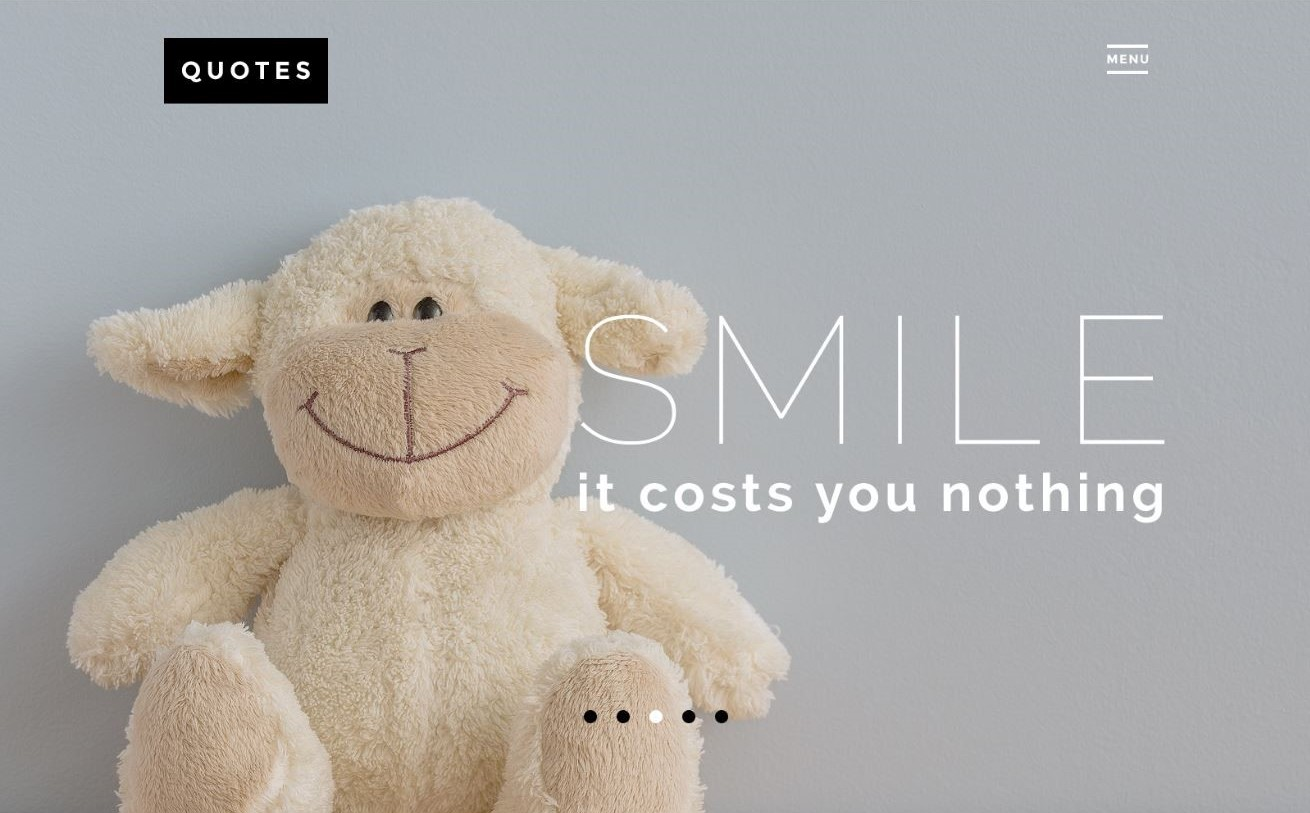
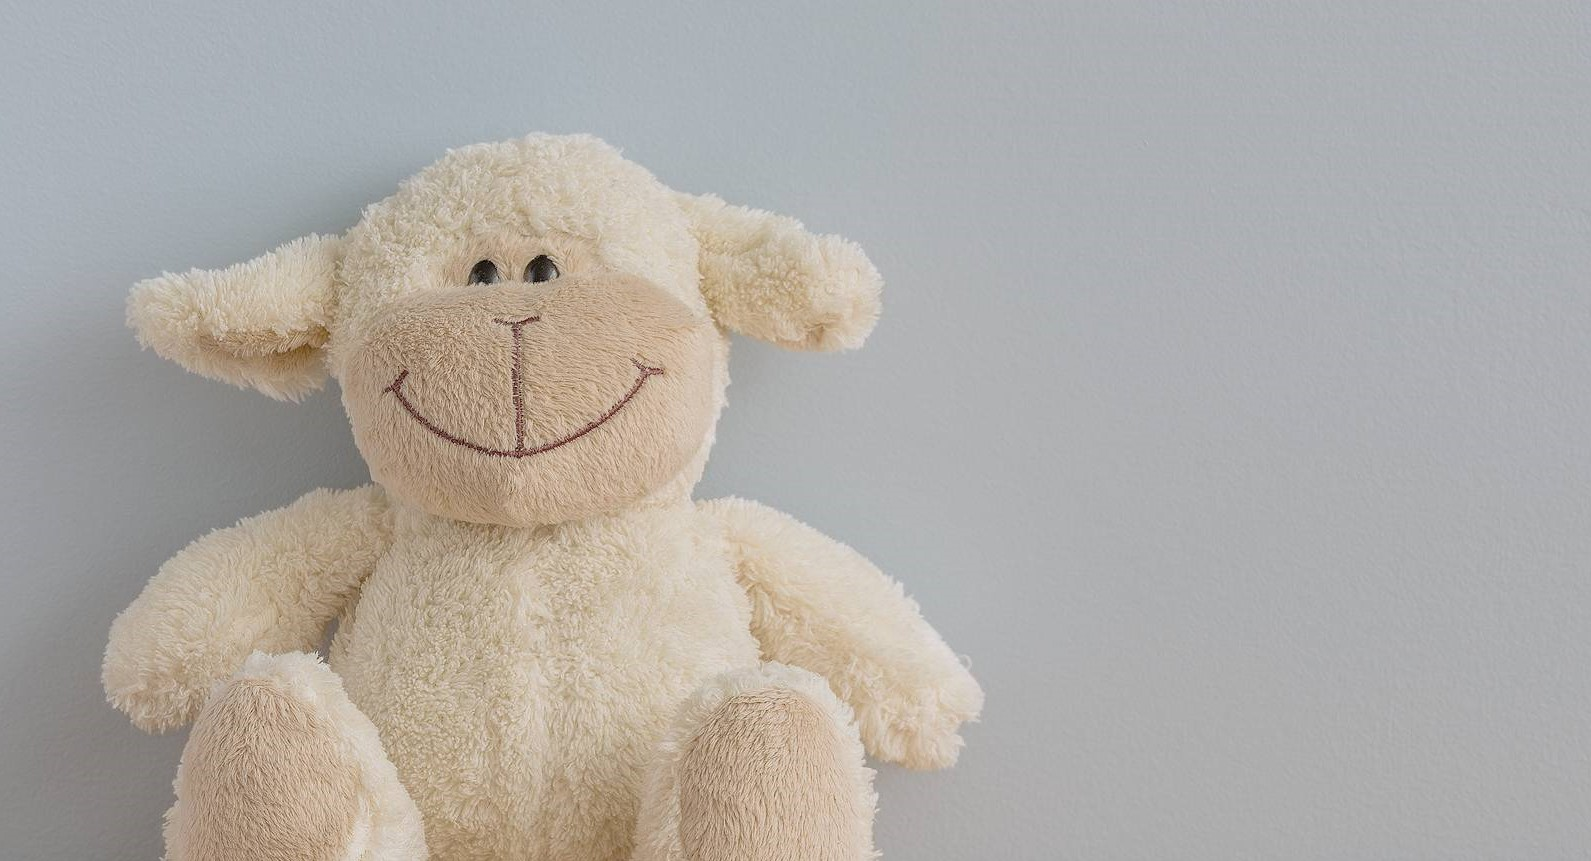
Proyecto

diff --git a/css/styles.css b/css/styles.css
@@ -1,12 +1,162 @@
 body{
-    font-family: 'Courier New', Courier, monospace;
     margin: 0 0 0 0;
 }
-#portada{
-    width: 100%;
-    height: 1002px;
+.wrapper{
+    width:1600px;
+    margin:auto;
+}
+
+/*Header*/
+#header{
+    background-image: url("../img/Portada_Oso.JPG");
+    background-repeat: no-repeat;
+    max-width: 100%;
+    height: 865px;
+}
+#title{
+    position: absolute;
+    color: white;
+    font-size: 14rem;
+    font-weight: 100;
+    font-family: 'Raleway', sans-serif;
+    letter-spacing: 7px;
+    margin-left: 725px;
+    top: 75px;
+}
+#boton{
+    width: 160px;
+    height: 60px;
+    margin-left: 130px;
+    margin-top: 30px;
+    background-color: black;
+    color: white;
+    font-size: 20px;
+    font-family: 'Montserrat', sans-serif;
+    letter-spacing: 5px;
+    text-transform: uppercase;
+    text-align: center;
+}
+#boton:hover{
+    background-color: white;
+    color: black;
+    border-radius: 0.5px;
+}
+#subtitle{
+    color: white;
+    font-family: 'Raleway', sans-serif;
+    font-size: 3.7rem;
+    font-weight: bold;
+    letter-spacing: 7px;
+    position: absolute;
+    right: 130px;
+    margin-top: 530px;
+}
+#menu{
+    font-family: 'Montserrat', sans-serif;
+    text-transform: uppercase;
+    color: white;
+    margin-left: 60%;
+    right: 210px;
+    position: absolute;
+    top:45px;
+    font-size: 1.2rem;
+}
+#menu:hover{
+    text-decoration: overline underline;
+}
+#circle-list{
+    list-style-type: none;
+    margin-left: 697px;
+    margin-top: 660px;
+}
+.circle:hover{
+    background-color: white;
+}
+.circle {
+    width: 14px;
+    height: 14px;
+    background-color: black;
+    border-radius: 50%;
+    float: left;
+    margin-right: 24px;
+}
+
+/*The Most Inclusive*/
+h2{
+    font-family: 'Raleway', sans-serif;
+    font-weight: 200;
+    font-size: 3.5rem;
+    text-align: center;
+    padding-top: 85px;
     margin: 0;
-    padding: 0;
-    /* left: 0; */
-    /* position: absolute; */
+}
+#subtitle-2{
+    font-family: 'Raleway', sans-serif;
+    font-weight: 600;
+    font-size: 3.9rem;
+    text-align: center;
+    margin: 0;
+}
+#text-subtitle{
+    text-align: center;
+    font-family: 'Raleway', sans-serif;
+    font-weight: bolder;
+    margin: 35px;
+}
+#icono{
+    width: 80px;
+    height: 2px;
+    background-color: black;
+    position: absolute; 
+    left: 750px;
+    top:1210px;
+}
+.text{
+    text-align: center;
+    font-family: 'Raleway', sans-serif;
+    font-weight: 500;
+    padding-top: 20px;
+    line-height: 1.5;
+}
+#top{
+    margin-top: 80px;
+}
+/*Jovenes*/
+#jovenes{
+    right: 0;
+    position: absolute;
+    top: 1500px;
+}
+#fondo{
+    width: 785px;
+    height: 640px;
+    background-color: #ffe9e2;
+    top:1500px;
+    position: absolute;
+}
+#frase{
+    text-align: left;
+    font-family: 'Raleway', sans-serif;
+    font-weight: 700;
+    font-size: 2.3rem;
+    margin-left: 100px;
+    margin-top: 140px;
+}
+#name{
+    text-align: left;
+    font-family: 'Raleway', sans-serif;
+    font-weight: 100;
+    font-size: 2rem;
+    margin-left: 100px;
+}
+#circle-list-lit{
+    list-style-type: none;
+}
+.circle2{
+    width: 10px;
+    height: 10px;
+    background-color: black;
+    border-radius: 50%;
+    float: left;
+    
 }

diff --git a/index.html b/index.html
@@ -4,11 +4,60 @@
     <meta charset="UTF-8">
     <meta name="viewport" content="width=device-width, initial-scale=1.0">
     <title>Proyecto Final WEB</title>
-    <link rel='SheetStyle' href='./css/styles.css'>
+    <link rel='StyleSheet' href='./css/styles.css'>
+    <style>
+        @import url('https://fonts.googleapis.com/css2?family=Montserrat:wght@700&display=swap');
+        @import url('https://fonts.googleapis.com/css2?family=Raleway:wght@100;200;500;600;700&display=swap');
+    </style>
 </head>
 <body>
     <div class='wrapper'>
-        <img src='./img/Portada_Oso.JPG' id='portada'>
+        <div id='header'>
+            <button id='boton'>Quotes</button>
+            <h1 id='title'>SMILE</h1>
+            <p id='subtitle'>it costs you nothing</p>
+            <a id='menu'>Menu</a>
+            <ul id='circle-list'>
+                <li class='circle'></li>
+                <li class='circle'></li>
+                <li class='circle'></li>
+                <li class='circle'></li>
+                <li class='circle'></li>
+            </ul>
+            <div id='icono'></div>
+        </div>
+        <div>
+            <h2>The most inclusive</h2>
+            <p id='subtitle-2'>Free PSD Template</p>
+            <p id='text-subtitle'>Free for commercial and personal use. <br>
+            You can easily edit its contents and code it for yourself or your client!</p>
+            <p class='text' id='top'>Lorem ipsumm dolor sit amet, consectyr adipiscing elit. Donec eget nisi eget tortot iaculis tristique. Ali- <br>
+                quam tincidunt posuere tortor hendrerit elementum. Nunc laoreet lorem a sem auctor fringilla . Pellen <br>
+                tesque dignissim accumsan lobortis. Sed pharetra erat vitae dui imperdiet quis commodo orci dapidus.
+            </p>
+            <p class='text'>Cum sociis natoque penatibus et magnis dis parcurient montes, nascetur ridiculis mus. Fusce at nunc <br>
+                libero. Nam metus lorem, rhoncus ac mattis ornare, blandit vel risus
+            </p>
+        </div>
+        <div>
+            <img src='./img/Jovenes.JPG' id='jovenes'>
+            <div id='fondo'>
+                <p id='frase'>I love people who make me <br>
+                laught. I honestly think it's the <br>
+                thing I like most, to laught. It <br>
+                cures a multitude of ills. It's <br>
+                probably the most important <br>
+                thing in a person.
+                </p>
+                <p id='name'>Audrey Hepburn</p>
+            </div>
+            <ul id='circle-list-lit'>
+                <li class='circle2'></li>
+                <li class='circle2'></li>
+                <li class='circle2'></li>
+                <li class='circle2'></li>
+            </ul>
+        </div>
     </div>
 </body>
 </html>
